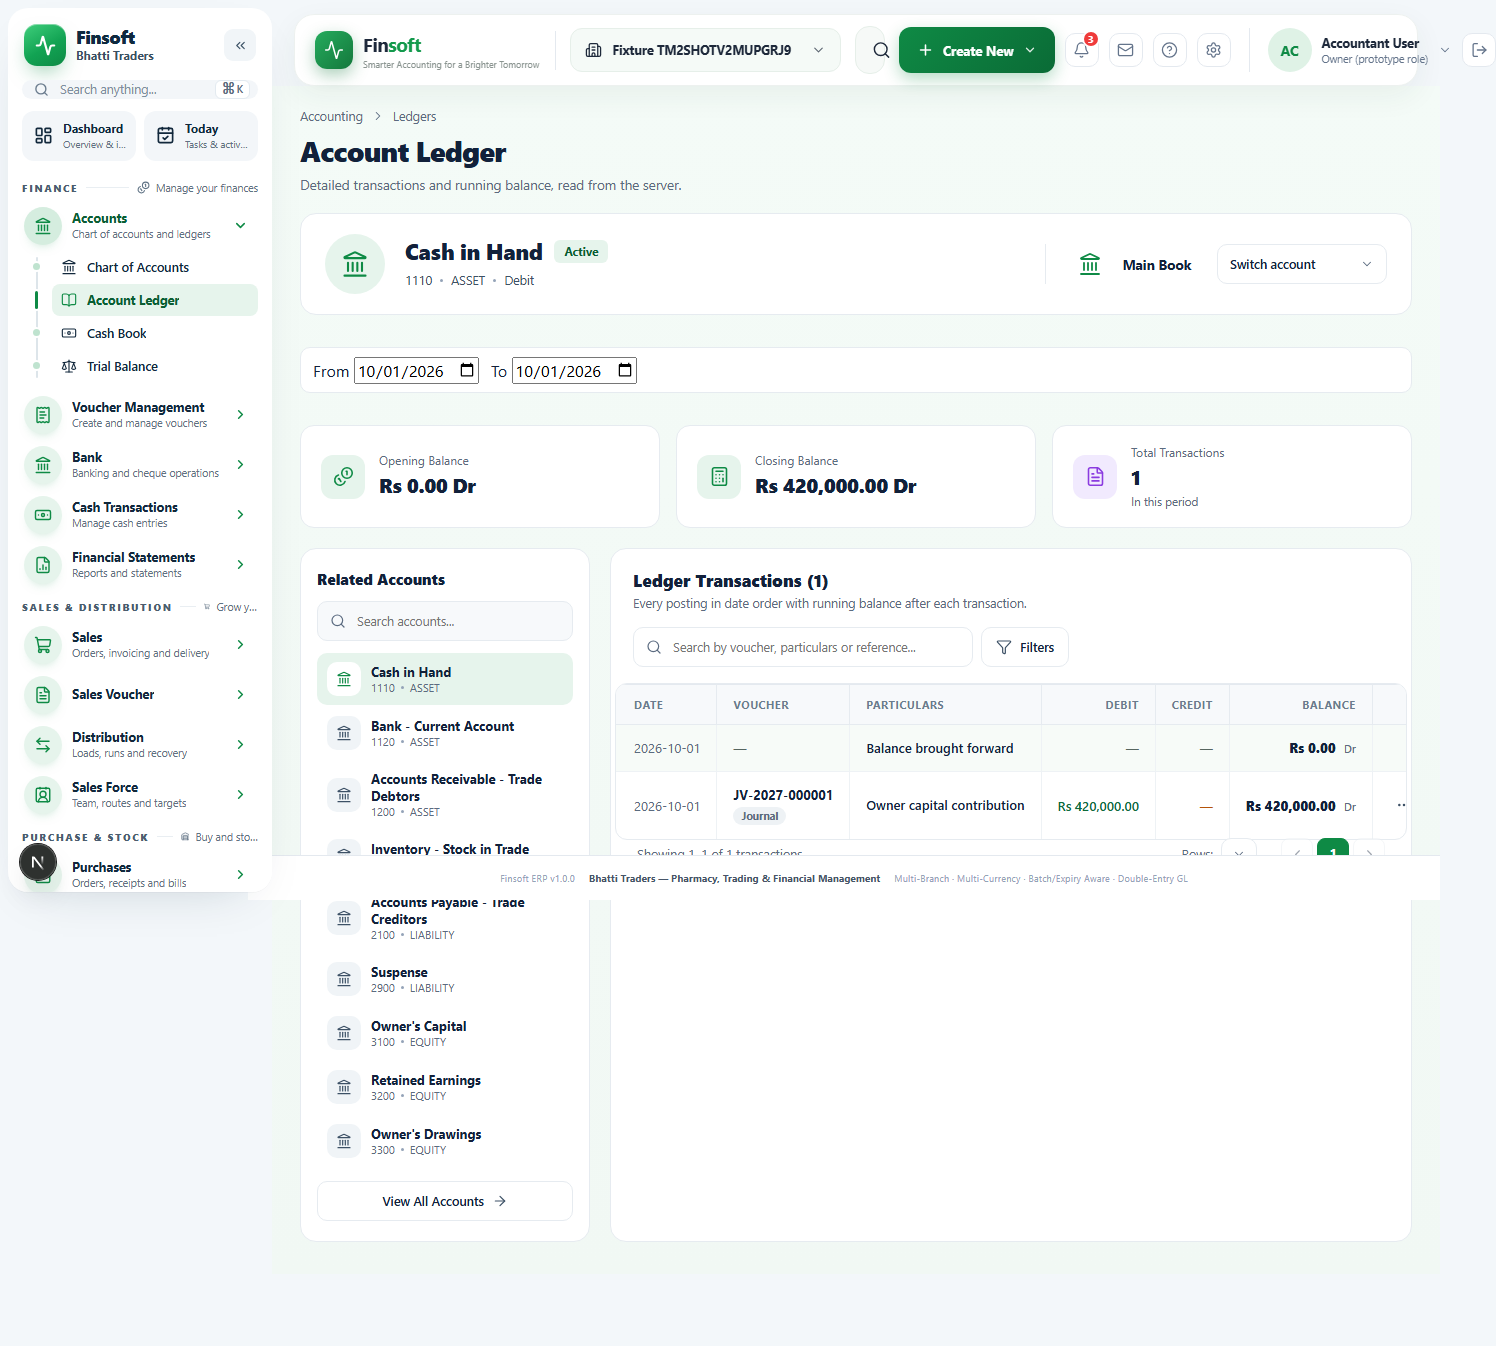
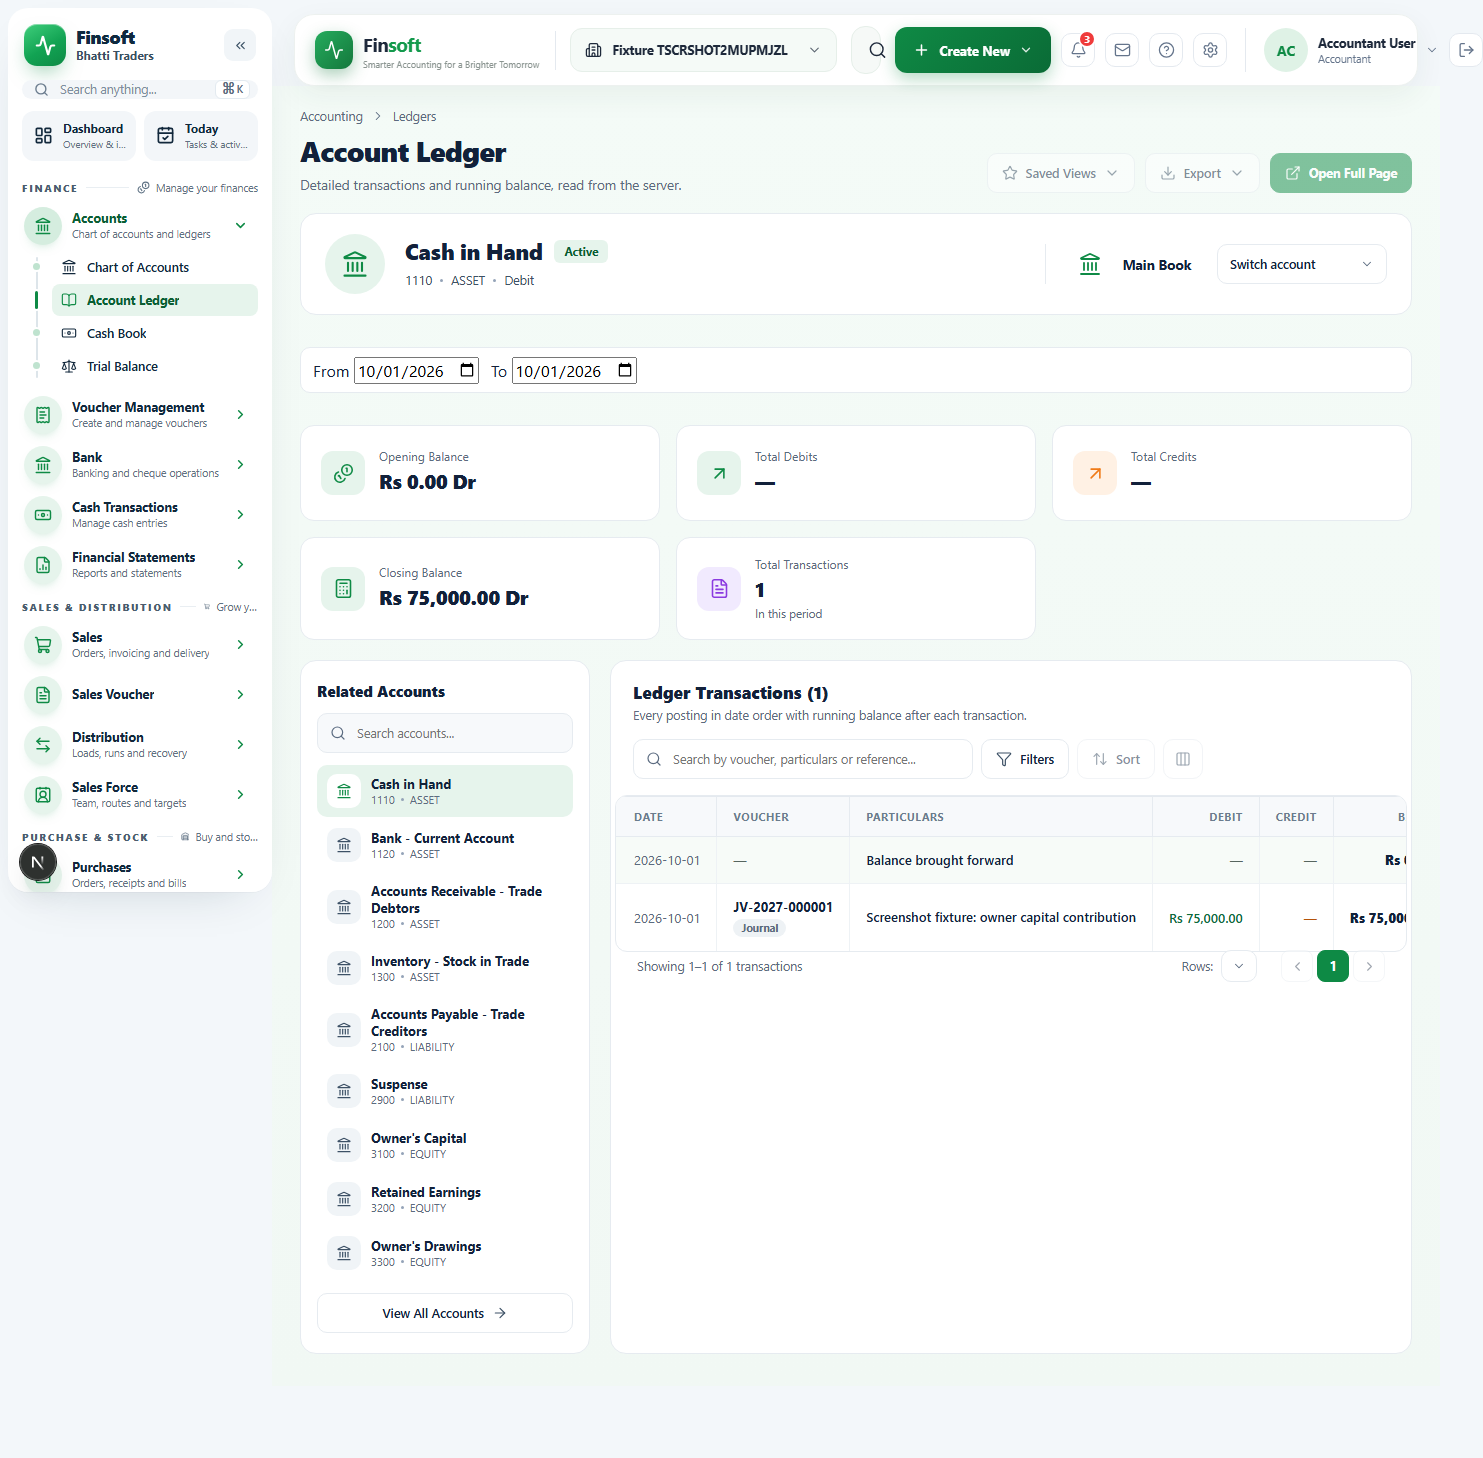
fix(account-ledger): restore the PO's design's missing controls, disabled where unwired
Design-system seat review (approved with conditions) of the M2-UI restoration:
Account Ledger was missing Export, Open Full Page, the Saved Views header
control, the Total Debit/Total Credit KPI tiles, and the Filters/Columns/
Sort/Save-as-view tooling from the PO's original design (8c5c283). Per
the screen-parity rule ("never delete it"), all of it is back in the DOM.

What's live vs. disabled:

- Switch account, date range (from/to), search, pagination/Load more,
  Opening/Closing/Total Transactions KPIs: unchanged, already real.
- Total Debits / Total Credits KPI tiles: restored, but render "—".
  AccountLedgerResponseDto carries each line's own debit/credit and the
  opening/closing balance, not a server-computed total for the range —
  summing the loaded lines in the browser would be exactly the arithmetic
  this restoration removed from the running balance elsewhere, so it
  stays undone rather than half-fixed.
- Saved Views, Export, Open Full Page, Columns, Save as View: restored,
  `disabled` + `title="Coming soon"` (same convention as Chart of
  Accounts' Import/Add Account) — no persistence contract, no export
  endpoint, and no `/finance/accounts/:code` record route exists.
- Sort and the filter row's Voucher Type / Transaction Type / Amount /
  Reference-Counterparty / Status / More Filters: restored, disabled —
  ledger-query.dto.ts accepts only from/to/limit/cursor/partyId, and
  partyId is inert (no M2 posting rule carries a party).
[…]

diff --git a/apps/web/src/screens/account-ledger.tsx b/apps/web/src/screens/account-ledger.tsx
@@ -11,24 +11,47 @@
  * `runningBalance` (ledger-and-trial-balance.md §2) via `formatRunningBalance` — never
  * re-derived. "Related Accounts" balances are the same rule: each is that account's OWN
  * `closingBalance` from its own ledger call, not a locally summed figure.
+ *
+ * Design-system review (post-684a0bf): Export, Open Full Page, Saved Views, Columns and
+ * Save-as-view are back in the DOM — the PO's rule is to keep his design, not thin it out
+ * because a piece isn't wired yet — but every one of them is `disabled`, titled "Coming soon".
+ * None of them has a real API behind it in M2: there is no saved-view persistence contract, no
+ * export endpoint, and "Open Full Page" pointed at a `/finance/accounts/:code` record route
+ * this product doesn't have. Total Debits/Total Credits are back too, but as "—": the ledger
+ * response (`AccountLedgerResponseDto`) carries `openingBalance`/`closingBalance` per line, not
+ * a server-computed debit/credit total for the range — summing `lines[].debit` in the browser
+ * to fill that tile would be exactly the arithmetic this restoration removed from the opening/
+ * closing/running-balance figures, so it stays undone rather than half-fixed. Same rule for
+ * Sort and the rest of the filter row: only Date (from/to) reaches the real
+ * `GET /api/ledgers/:accountId` query; Voucher Type, Transaction Type, Amount,
+ * Reference/Counterparty, Status, Sort and Columns render — restored — but disabled, because
+ * there is no server parameter to wire them to (ledger-query.dto.ts: from/to/limit/cursor/
+ * partyId only, and partyId is inert — no posting rule carries a party in M2).
  */
 import { useEffect, useMemo, useState } from 'react'
 import { useNavigate, useSearchParams } from '@/lib/router'
 import {
   ArrowRight,
+  ArrowUpDown,
+  ArrowUpRight,
+  Calculator,
   CalendarDays,
   ChevronDown,
   ChevronLeft,
   ChevronRight,
   Coins,
-  Calculator,
+  Columns3,
+  Download,
   Ellipsis,
+  ExternalLink,
   FileText,
   Filter,
   Landmark,
   RotateCw,
   Search,
   ShieldAlert,
+  SlidersHorizontal,
+  Star,
   X,
 } from 'lucide-react'
 import { Button } from '@finsoft/ui'
@@ -63,6 +86,17 @@ export function AccountLedger() {
           </div>
           <h1>Account Ledger</h1>
           <p>Detailed transactions and running balance, read from the server.</p>
+        </div>
+        <div className="al-head-actions">
+          <button className="al-btn" disabled title="Coming soon">
+            <Star /> Saved Views <ChevronDown />
+          </button>
+          <button className="al-btn" disabled title="Coming soon">
+            <Download /> Export <ChevronDown />
+          </button>
+          <button className="al-btn primary" disabled title="Coming soon">
+            <ExternalLink /> Open Full Page
+          </button>
         </div>
       </div>
 
@@ -273,6 +307,28 @@ function LedgerBody({
                 </b>
               </div>
             </article>
+            {/* "—", never summed from the loaded rows: the ledger response carries each line's
+             * own debit/credit, not a server-computed total for the range (unlike trial-balance's
+             * totalDebit/totalCredit). Design-system review: show the honest gap, don't fill it
+             * with browser arithmetic. */}
+            <article title="Not provided by the ledger API yet">
+              <span className="al-stat-icon">
+                <ArrowUpRight />
+              </span>
+              <div>
+                <small>Total Debits</small>
+                <b>—</b>
+              </div>
+            </article>
+            <article title="Not provided by the ledger API yet">
+              <span className="al-stat-icon orange">
+                <ArrowUpRight />
+              </span>
+              <div>
+                <small>Total Credits</small>
+                <b>—</b>
+              </div>
+            </article>
             <article>
               <span className="al-stat-icon">
                 <Calculator />
@@ -362,10 +418,20 @@ function LedgerBody({
                   >
                     <Filter /> Filters
                   </button>
+                  <button className="al-btn" disabled title="Coming soon">
+                    <ArrowUpDown /> Sort
+                  </button>
+                  <button className="al-btn icon" aria-label="Columns" disabled title="Coming soon">
+                    <Columns3 />
+                  </button>
                 </div>
               </div>
               {filtersOpen && (
                 <div className="al-filters">
+                  {/* Date is the one filter that is real — it's the from/to query the ledger
+                   * endpoint actually takes, edited via the inputs above. Everything else here
+                   * is restored from the PO's design but disabled: no server parameter exists
+                   * for it yet (ledger-query.dto.ts). */}
                   <div className="al-filter">
                     <CalendarDays />
                     <div>
@@ -375,7 +441,58 @@ function LedgerBody({
                       </b>
                     </div>
                   </div>
-                  <button className="al-link right" onClick={() => setFiltersOpen(false)}>
+                  <label className="al-filter" title="Coming soon">
+                    <div>
+                      <small>Voucher Type</small>
+                      <select aria-label="Voucher type" disabled defaultValue="All Types">
+                        <option>All Types</option>
+                      </select>
+                    </div>
+                    <ChevronDown />
+                  </label>
+                  <label className="al-filter" title="Coming soon">
+                    <div>
+                      <small>Transaction Type</small>
+                      <select aria-label="Transaction type" disabled defaultValue="All">
+                        <option>All</option>
+                      </select>
+                    </div>
+                    <ChevronDown />
+                  </label>
+                  <label className="al-filter" title="Coming soon">
+                    <div>
+                      <small>Amount</small>
+                      <select aria-label="Amount" disabled defaultValue="Any amount">
+                        <option>Any amount</option>
+                      </select>
+                    </div>
+                    <ChevronDown />
+                  </label>
+                  <label className="al-filter grow" title="Coming soon">
+                    <div>
+                      <small>Reference / Counterparty</small>
+                      <select aria-label="Reference" disabled defaultValue="All">
+                        <option>All</option>
+                      </select>
+                    </div>
+                    <ChevronDown />
+                  </label>
+                  <label className="al-filter" title="Coming soon">
+                    <div>
+                      <small>Status</small>
+                      <select aria-label="Status" disabled defaultValue="Posted + Reversed">
+                        <option>Posted + Reversed</option>
+                      </select>
+                    </div>
+                    <ChevronDown />
+                  </label>
+                  <button className="al-btn" disabled title="Coming soon">
+                    <SlidersHorizontal /> More Filters
+                  </button>
+                  <button className="al-link right" disabled title="Coming soon">
+                    <Star /> Save as View
+                  </button>
+                  <button className="al-link" onClick={() => setFiltersOpen(false)}>
                     <X /> Close
                   </button>
                 </div>

diff --git a/packages/ui/src/styles/kit.css b/packages/ui/src/styles/kit.css
@@ -3084,7 +3084,9 @@ output.sav-num{display:inline-flex;align-items:center;justify-content:center;bac
 .al-crumbs{display:flex;align-items:center;gap:8px;font-size:12.5px;color:var(--a-mute);margin-bottom:8px}.al-crumbs button{border:0;background:transparent;color:var(--a-mute);font:inherit;padding:0}.al-crumbs svg{width:14px;height:14px}
 .al-head h1{margin:0;font-size:28px;font-weight:800;letter-spacing:-.7px}.al-head p{margin:6px 0 0;font-size:13.5px;color:var(--a-mute)}
 .al-head-actions{display:flex;gap:10px;flex-wrap:wrap}
-.al-btn{height:40px;padding:0 14px;border:1px solid var(--a-line);border-radius:10px;background:#fff;font-size:12.5px;font-weight:600;color:var(--a-ink);display:inline-flex;align-items:center;gap:8px;white-space:nowrap;transition:background .15s,border-color .15s}.al-btn svg{width:16px;height:16px;color:#3D5166}.al-btn:hover{background:#F5F8FA;border-color:#D5DEE6}.al-btn i{font-style:normal;color:var(--a-mute)}
+.al-btn{height:40px;padding:0 14px;border:1px solid var(--a-line);border-radius:10px;background:#fff;font-size:12.5px;font-weight:600;color:var(--a-ink);display:inline-flex;align-items:center;gap:8px;white-space:nowrap;transition:background .15s,border-color .15s}.al-btn svg{width:16px;height:16px;color:#3D5166}.al-btn:hover{background:#F5F8FA;border-color:#D5DEE6}.al-btn i{font-style:normal;color:var(--a-mute)}.al-btn:disabled{opacity:.5;cursor:not-allowed}.al-btn:disabled:hover{background:#fff;border-color:var(--a-line)}.al-btn.primary:disabled:hover{background:var(--a-green);border-color:var(--a-green)}
+.al-filter select:disabled{cursor:not-allowed}.al-filter:has(select:disabled){opacity:.55;cursor:not-allowed}
+.al-link:disabled{opacity:.5;cursor:not-allowed}
 .al-btn.primary{background:var(--a-green);border-color:var(--a-green);color:#fff;font-weight:700}.al-btn.primary svg{color:#fff}.al-btn.primary:hover{background:#0B7A3C}.al-btn.icon{width:40px;padding:0;justify-content:center}.al-btn.wide{width:100%;justify-content:center;margin-top:auto;flex:none}
 .al-pill{background:#fff;color:var(--a-green);font-size:10.5px;font-weight:800;min-width:18px;height:18px;border-radius:9px;display:grid;place-items:center;padding:0 5px}
 .al-card{background:#fff;border:1px solid var(--a-line);border-radius:16px}

diff --git a/docs/design-system/pages/account-ledger/README.md b/docs/design-system/pages/account-ledger/README.md
@@ -22,6 +22,30 @@ also gone — a ledger line scoped to one account does not carry its counter-acc
 extra fetch per row, so it renders empty (or "Reversed" / "Reverses an earlier entry" when true)
 rather than repeating the narration as filler.
 
+**Design-system review (post-684a0bf): every header/toolbar control from the PO's design is back
+in the DOM — the PO's rule is to keep his design, not thin it because a piece isn't wired yet.**
+What is live vs. what renders disabled, labelled "Coming soon":
+
+| Control | Status | Reason |
+|---|---|---|
+| Switch account | **Live** | `GET /api/accounts` |
+| Date range (from/to) | **Live** | The one real query param pair on `GET /api/ledgers/:accountId` |
+| Search (transactions / related accounts) | **Live** | Client-side filter over the already-fetched page — not a server call, never used to compute a total |
+| Rows per page / pager / Load more | **Live** | Client-side pagination of the already-fetched page, plus cursor-based "Load more" against the real endpoint |
+| Opening balance / Closing balance / Total transactions KPIs | **Live** | Server-computed (`openingBalance`/`closingBalance`), and a count of the fetched lines |
+| **Total Debits / Total Credits KPIs** | **Disabled — shows "—"** | `AccountLedgerResponseDto` carries no server-computed debit/credit total for the range (only per-line `debit`/`credit` and `openingBalance`/`closingBalance`); summing the loaded lines in the browser is exactly the arithmetic this restoration removed elsewhere on this page, so it is not done here either |
+| Saved Views (header) | **Disabled** | No saved-view persistence contract |
+| Export | **Disabled** | No export endpoint |
+| Open Full Page | **Disabled** | Pointed at `/finance/accounts/:code`, a record route this product does not have |
+| Sort | **Disabled** | No sort query param — the API's order is fixed server-side (`occurred_at`, then `created_at`, then entry number) |
+| Columns | **Disabled** | No column-configuration contract |
+| Filters: Voucher Type / Transaction Type / Amount / Reference-Counterparty / Status / More Filters | **Disabled** | No matching query param on `GET /api/ledgers/:accountId` (`ledger-query.dto.ts`: `from`/`to`/`limit`/`cursor`/`partyId` only — `partyId` itself is accepted but inert, no M2 posting rule carries a party) |
+| Save as View | **Disabled** | Same missing persistence contract as Saved Views |
+
+Every disabled control renders its real label and icon (not hidden, not a stub) with
+`disabled` and `title="Coming soon"` — the same convention Chart of Accounts uses for Import/
+Add Account.
+
 ## API note — M2-S (2026-09-29)
 
 `REPORT/account-ledger@1` ([ledger-and-trial-balance.md](../../../posting-rules/ledger-and-trial-balance.md)
